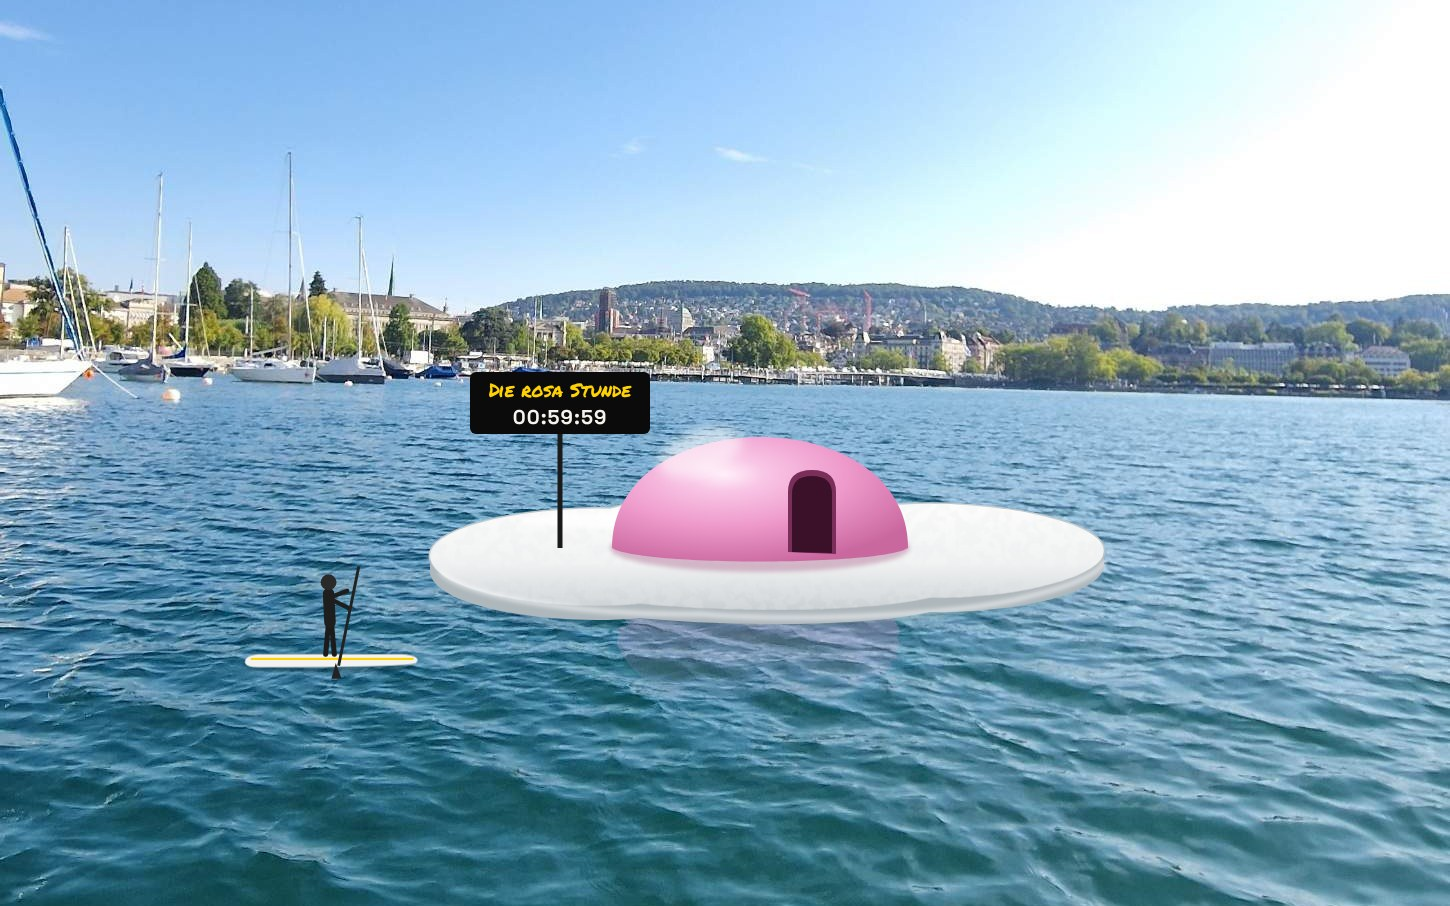
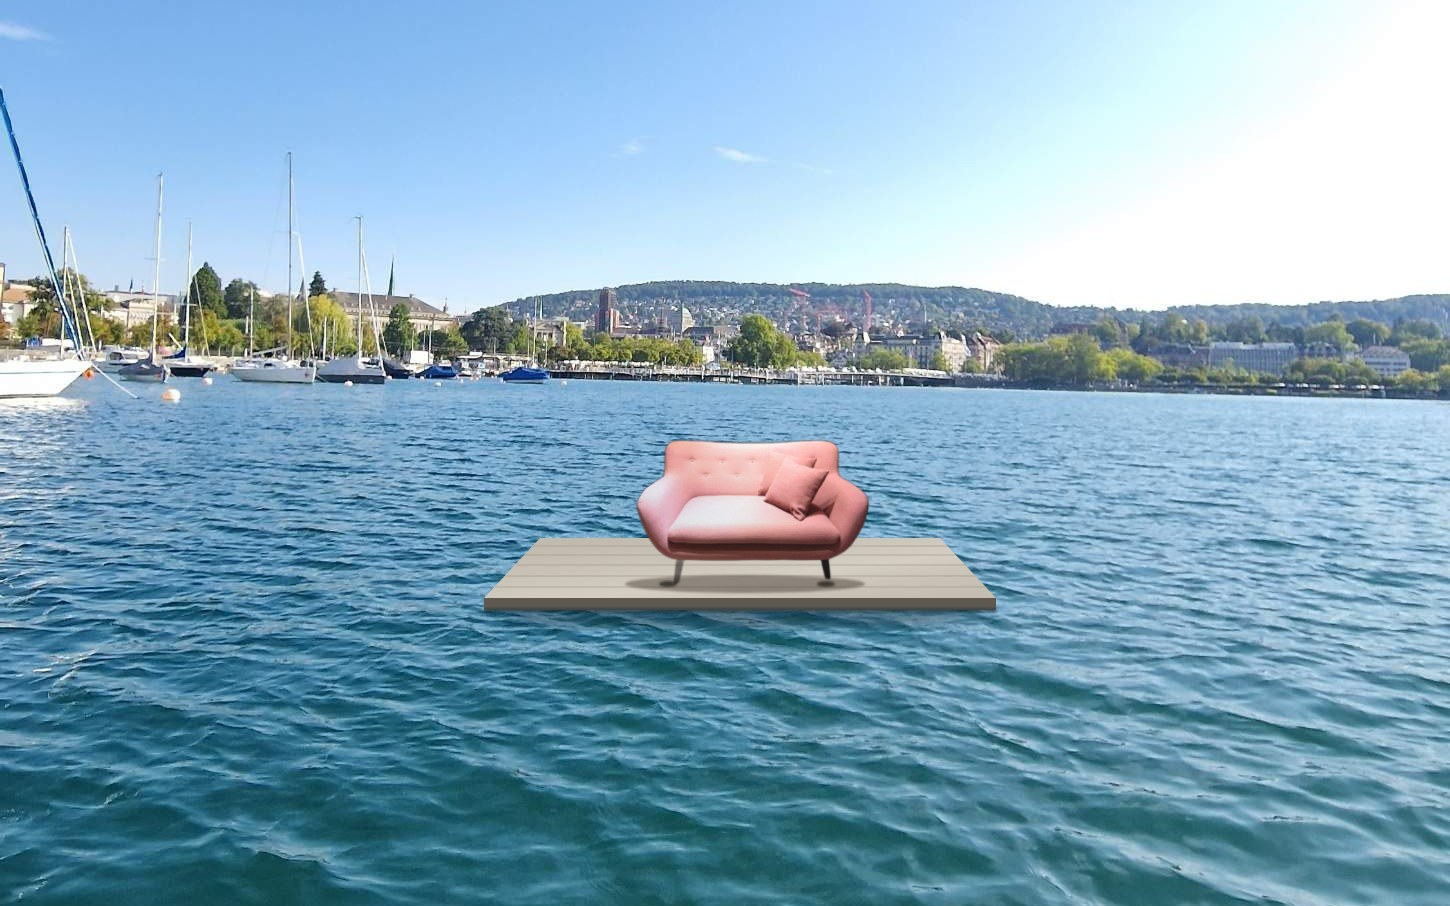
Rosarot: Pitch mit rosa Sofa auf dem Zürichsee
Claude-Session: https://claude.ai/code/session_01CY81N8Y93u8VmqGXdwvTqH

Changed region(s): [[0.2793, 0.4018, 0.7759, 0.7417], [0.1552, 0.6181, 0.3103, 0.7417]]

diff --git a/rosarot/index.html b/rosarot/index.html
@@ -325,12 +325,12 @@ body.ovo{overflow:hidden}
 <div class="works"><a class="wk" href="/images/nutrexin-novembermorgen.jpg" target="_blank" rel="noopener"><img src="/images/nutrexin-novembermorgen.jpg" alt="Nutrexin · Post" loading="lazy" decoding="async"><span>Nutrexin · Post</span></a><a class="wk" href="/images/nutrexin-vitamin-c.jpg" target="_blank" rel="noopener"><img src="/images/nutrexin-vitamin-c.jpg" alt="Nutrexin · Post" loading="lazy" decoding="async"><span>Nutrexin · Post</span></a><div class="wk"><video src="/videos/wakao-reel.mp4" poster="/images/wakao-poster.jpg" controls playsinline preload="none"></video><span>Hawlik · Reel</span></div><a class="wk" href="/images/aroa-giveaway.jpg" target="_blank" rel="noopener"><img src="/images/aroa-giveaway.jpg" alt="Aroā Jun · Giveaway" loading="lazy" decoding="async"><span>Aroā Jun · Giveaway</span></a><a class="wk" href="/images/Jun_Mojito_Idee.jpg" target="_blank" rel="noopener"><img src="/images/Jun_Mojito_Idee.jpg" alt="Aroā Jun · Idee" loading="lazy" decoding="async"><span>Aroā Jun · Idee</span></a><a class="wk" href="/images/wwb-posts.jpg" target="_blank" rel="noopener"><img src="/images/wwb-posts.jpg" alt="Was war bekannt?" loading="lazy" decoding="async"><span>Was war bekannt?</span></a></div>
 <div class="links"><a href="https://www.instagram.com/lerossi_visuals/" target="_blank" rel="noopener">Instagram @lerossi_visuals</a><a href="https://www.instagram.com/lerossiytb/" target="_blank" rel="noopener">Instagram @lerossiytb</a><a href="https://www.youtube.com/@_lerossi" target="_blank" rel="noopener">YouTube LeRossi</a><a href="https://nicolasrossi.ch/#portfolio" target="_blank" rel="noopener">Ganzes Portfolio</a></div>
 </template></section>
-<section class="ph st" id="idee" data-n="04"><div class="lbl"><b>04</b> Pitch für euch</div><div class="idp" role="button" tabindex="0"><div class="tp l"></div><div class="tp r"></div><img class="eiimg" src="rosa_ei.jpg" alt="Visualisierung: begehbares Spiegelei mit rosa Eigelb auf dem Zürichsee, davor ein SUP" loading="lazy"><div class="ik">Pitch · Kunde: Rosarot &amp; What the Duck</div><div class="ih">Die rosa Stunde.<br>Hier wird eine Idee <span>ausgebrütet.</span></div><div class="is">Ein rosa Ei · jeden Monat woanders · 60 Minuten Kreativberatung</div><div class="isig">Nicolas Rossi <b>→</b> <i>Rosa</i>rot</div><span class="pin">Antippen</span></div><button type="button" class="more" data-ov="idee">Ein begehbares rosa Ei taucht in Zürich auf – drin bekommt ein Start-up eine Stunde Kreativberatung. <u>Mehr dazu →</u></button><template id="ov-idee"><div class="kl">04 · Pitch für euch</div>
-<img class="eiov" src="rosa_ei.jpg" alt="Visualisierung: das rosa Ei auf dem Zürichsee"><h3>Die rosa Stunde. <y>Kunde: ihr.</y></h3>
-<p>Ihr pitcht jeden Tag für andere – zuletzt erfolgreich für AutoScout24 Direct. Also dreh ich's um und pitche für euch. Und weil bei euch das Gelbe vom Ei rosarot sein darf, gibt's euer Ei – in gross.</p>
-<div class="facts"><div><span>Idee</span><b>Einmal im Monat schenkt Rosarot einem jungen Zürcher Start-up eine Stunde Kreativberatung – in eurem Ei: ein begehbares Spiegelei mit rosa Eigelb als Kuppel.</b></div><div><span>Insight</span><b>Start-ups haben Ideen, aber kein Agenturbudget. Und Agenturen zeigen selten, wie sie eigentlich denken.</b></div><div><span>Ziel</span><b>Rosarot wird zur Adresse für junge Marken – und What the Duck hat jeden Monat starken Content.</b></div></div>
-<ul class="pts"><li><b>Das rosa Ei wandert</b> – jeden Monat an einen anderen Ort: auf einer Plattform mitten auf dem Zürichsee, am Hauptbahnhof, auf dem Lindenhof, unter der Hardbrücke. Ganz Zürich fragt sich: Was macht das Ei da?</li><li><b>Auf dem See</b> – das Start-up paddelt auf dem SUP zum Ei. Als SUP-Instruktor bring ich sie heil hin.</li><li><b>Teaser wie bei ACE2ACE</b> – eine Woche vorher Rätselplakate: «DAS R_SA EI K_MMT.» – es fehlt nur ein Buchstabe. Wo es auftaucht, verrät nur Instagram.</li><li><b>Drin wird gebrütet</b> – 60 Minuten Beratung, gefilmt. Draussen ein Screen, der zeigt, wie viel Zeit noch bleibt. Nach einer Stunde «schlüpft» die Idee und wird draussen präsentiert.</li><li><b>Social</b> – What the Duck macht aus jeder Stunde ein Reel «Von 0 auf Idee in 60 Minuten». Bewerben können sich Start-ups per Story-Sticker.</li><li><b>Medien</b> – ein rosa Ei auf dem Zürichsee ist ein Bild, das jede Zeitung bringen will. Dazu die Geschichte: Agentur schenkt Start-ups Ideen.</li></ul>
-<div class="facts"><div><span>Messen</span><b>Medienberichte, Bewerbungen von Start-ups, Reel-Views – und wie viele zu Kunden werden</b></div><div><span>Von mir</span><b>Konzept, Locations, Dreh &amp; Schnitt, SUP-Shuttle</b></div><div><span>Prototyp</span><b>Meine erste rosa Stunde hab ich schon gehalten: für mich selbst. Ihr lest gerade das Ergebnis.</b></div></div>
+<section class="ph st" id="idee" data-n="04"><div class="lbl"><b>04</b> Pitch für euch</div><div class="idp" role="button" tabindex="0"><div class="tp l"></div><div class="tp r"></div><img class="eiimg" src="rosa_ei.jpg" alt="Visualisierung: rosa Sofa auf einem Floss mitten auf dem Zürichsee" loading="lazy"><div class="ik">Pitch · Kunde: Rosarot &amp; What the Duck</div><div class="ih">Die rosa Stunde.<br>Nehmt Platz – wir haben <span>60 Minuten.</span></div><div class="is">Ein rosa Sofa · jeden Monat woanders · eine Stunde Kreativberatung</div><div class="isig">Nicolas Rossi <b>→</b> <i>Rosa</i>rot</div><span class="pin">Antippen</span></div><button type="button" class="more" data-ov="idee">Ein rosa Sofa taucht an den unmöglichsten Orten in Zürich auf – darauf bekommt ein Start-up eine Stunde Kreativberatung. <u>Mehr dazu →</u></button><template id="ov-idee"><div class="kl">04 · Pitch für euch</div>
+<img class="eiov" src="rosa_ei.jpg" alt="Visualisierung: das rosa Sofa auf dem Zürichsee"><h3>Die rosa Stunde. <y>Kunde: ihr.</y></h3>
+<p>Ihr pitcht jeden Tag für andere – zuletzt erfolgreich für AutoScout24 Direct. Also dreh ich's um und pitche für euch. Und weil bei euch alles ein bisschen rosarot ist, gibt's ein rosa Sofa.</p>
+<div class="facts"><div><span>Idee</span><b>Einmal im Monat schenkt Rosarot einem jungen Zürcher Start-up eine Stunde Kreativberatung – auf einem rosa Sofa – jedes Mal an einem Ort, wo niemand ein Sofa erwartet.</b></div><div><span>Insight</span><b>Start-ups haben Ideen, aber kein Agenturbudget. Und Agenturen zeigen selten, wie sie eigentlich denken.</b></div><div><span>Ziel</span><b>Rosarot wird zur Adresse für junge Marken – und What the Duck hat jeden Monat starken Content.</b></div></div>
+<ul class="pts"><li><b>Das rosa Sofa wandert</b> – jeden Monat an einen anderen Ort: auf einem Floss mitten auf dem Zürichsee, zwischen den Pendlern in der Europaallee, im Chinagarten oder oben auf dem Hügel mit Blick über Zürich. Alle fragen sich: Was macht das Sofa da?</li><li><b>Teaser wie bei ACE2ACE</b> – eine Woche vorher Rätselplakate: «DAS R_SA S_FA K_MMT.» – es fehlt nur ein Buchstabe. Wo es auftaucht, verrät nur Instagram.</li><li><b>Live</b> – 60 Minuten Beratung auf dem Sofa, gefilmt. Daneben ein Countdown. Wer vorbeikommt, darf zuhören – am Ende wird die Idee vor Ort präsentiert.</li><li><b>Social</b> – What the Duck macht aus jeder Stunde ein Reel «Von 0 auf Idee in 60 Minuten». Bewerben können sich Start-ups per Story-Sticker.</li><li><b>Medien</b> – ein rosa Sofa auf dem Zürichsee ist ein Bild, das jede Zeitung bringen will. Dazu die Geschichte: Agentur schenkt Start-ups Ideen.</li></ul>
+<div class="facts"><div><span>Messen</span><b>Medienberichte, Bewerbungen von Start-ups, Reel-Views – und wie viele zu Kunden werden</b></div><div><span>Von mir</span><b>Konzept, Locations, Dreh &amp; Schnitt – und den Transport aufs Floss übernehm ich mit dem SUP</b></div><div><span>Prototyp</span><b>Meine erste rosa Stunde hab ich schon gehalten: für mich selbst. Ihr lest gerade das Ergebnis.</b></div></div>
 <p class="ps2">Pitch gewonnen? Dann sehen wir uns zum Briefing.</p></template></section>
 <section class="ph st" id="erfahrung" data-n="05"><div class="lbl"><b>05</b> Erfahrung</div><figure class="sc tap" data-k="p_velo" style="--ar:550/560"><img src="p_velo.jpg" alt="Plakat am Strassenrand" loading="lazy"><div class="bd" data-i="0" data-w="720" data-h="1000"><div class="col" style="left:58px;top:64px;right:50px;bottom:90px;justify-content:space-between"><div class="hx" style="font-size:100px">Mit dem Velo durch <w>Neuseeland.</w></div><div class="hx" style="font-size:56px"><w>Und nebenbei ein Start-up gross gemacht.</w></div></div><div class="sig" style="right:36px;bottom:34px;font-size:22px">Nicolas Rossi <span>→</span> <i>Rosa</i><u>rot</u></div></div><span class="pin">Antippen</span></figure><button type="button" class="more" data-ov="erfahrung">Nutrexin, Aroā Jun in Auckland, Lehrer, SUP-Instruktor. <u>Mehr dazu →</u></button><template id="ov-erfahrung"><div class="kl">05 · Erfahrung</div><h3>Erfahrung? <y>Aus vielen Ecken.</y></h3>
 <ul class="pts"><li><b>seit 9/2026 · Marketing-Praktikum · Nutrexin AG</b> – Fachbeiträge, Flyer und Plakate, Fachevent, Go-live Onlineshop.</li><li><b>2025–2026 · Freelance Marketing · Aroā Jun, Auckland</b> – Konzepte und Brand Design für einen Honig-Kombucha, Social Media und Ads, Live-Marketing an Events – mit Bienenkostüm als Publikumsmagnet.</li><li><b>2025–2026 · Weltreise</b> – mit dem Velo durch Neuseeland und Thailand. Alles auf der GoPro, online geht's im Februar.</li><li><b>2024–2025 · Lehrperson · Primarschule Dietikon</b> – dazu 3 Monate Französisch in Adliswil. Inhalte verständlich machen, vor Leuten stehen.</li><li><b>2021–2024 · Brand Ambassador</b> – Rivella an den Migros Ski Days, Swiss-Ski, Zweifel und Focus Water an Messen und Pop-ups.</li><li><b>2021–2026 · SUP-Instruktor &amp; Stationsleiter · SUPKultur</b> – Kurse und Teambuildings organisiert und geleitet.</li></ul></template></section>
